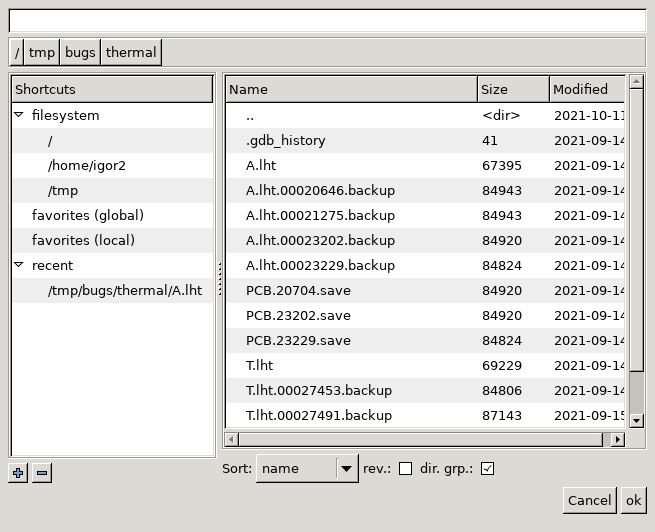
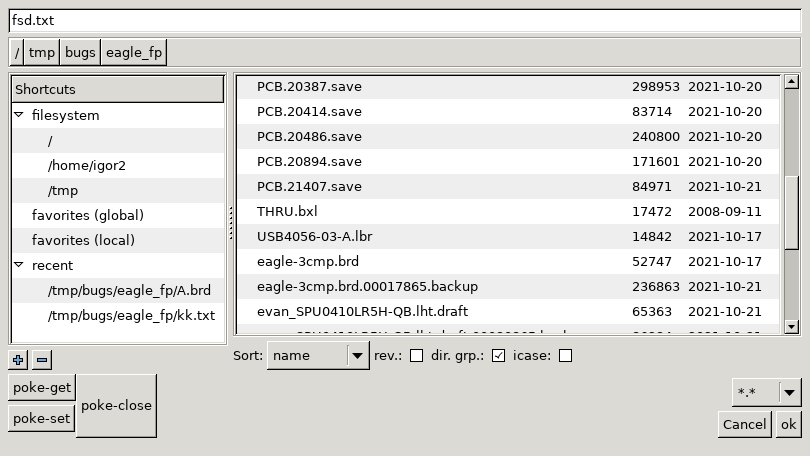
[doc] -Update: fsd doc for the final look
git-svn-id: svn://repo.hu/librnd/trunk@33189 1d61de99-560f-4dba-8957-1e505d42358b

Changed region(s): [[0.0, 0.0, 1.0, 0.9825], [0.0916, 0.9518, 0.1832, 0.9825]]

diff --git a/doc/user/gui/dlg_fsd.html b/doc/user/gui/dlg_fsd.html
@@ -93,13 +93,18 @@ plugins/lib_hid_common/fsd/icase.
 <p>
 The <b>bottom left part</b> optionally hosts a subdialog that is specific
 for the operation the fsd is invoked for. It typically lists file format
-and I/O options.
+and I/O options. (Shown as 'poke' buttons on the screenshot.)
 <p>
 The <b>bottom right part</b> consists of the "cancel" and "ok" buttons. If
 the "cancel" button is clicked, the dialog closes and returns "no file selected".
 If the "ok" button is clicked the full path of the file entered in the
 file name text input is returned as the result (and the dialog box is closed).
 If the text input is empty, the 'ok' button is a no-op.
+<p>
+Above the 'ok' button a file name ("file type") filter may appear. When it
+is present, it is a combo box that lists different filtering options. It
+affects which files are shown in the file list.
+
 
 
 
